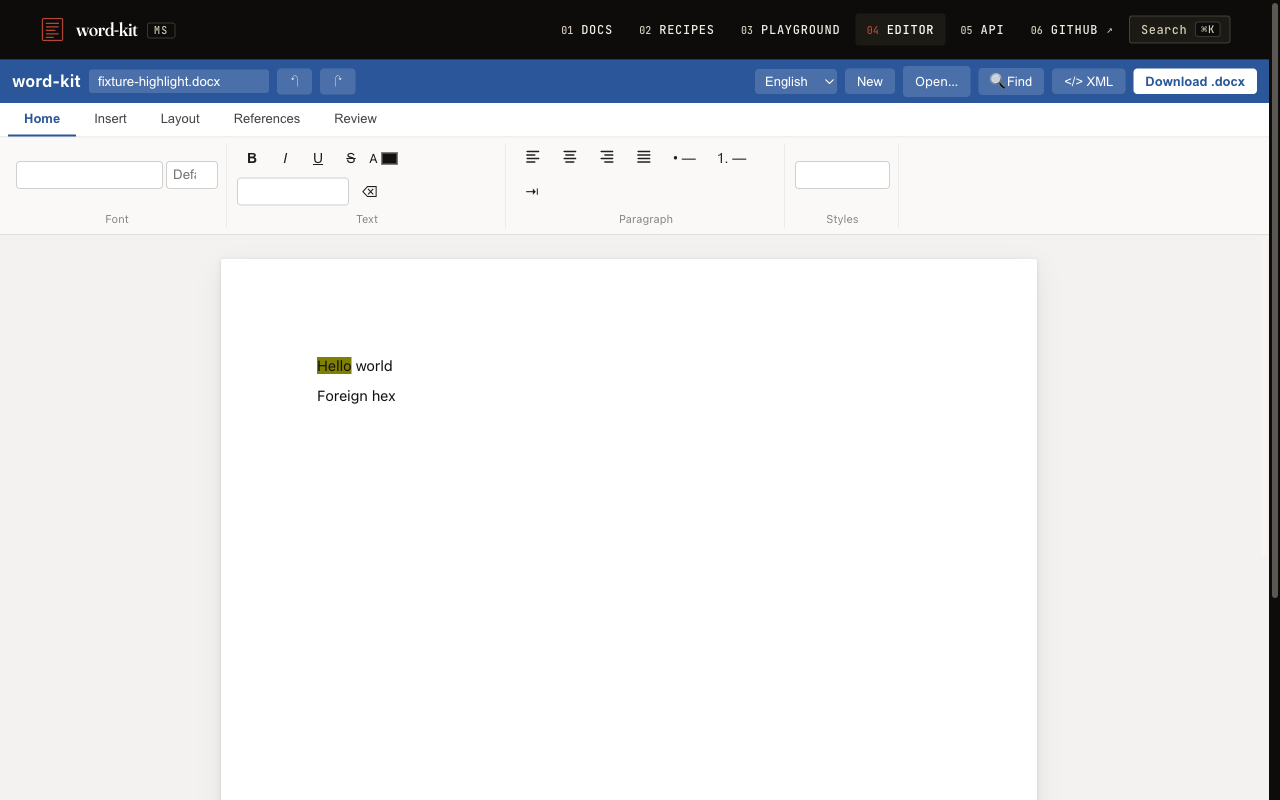
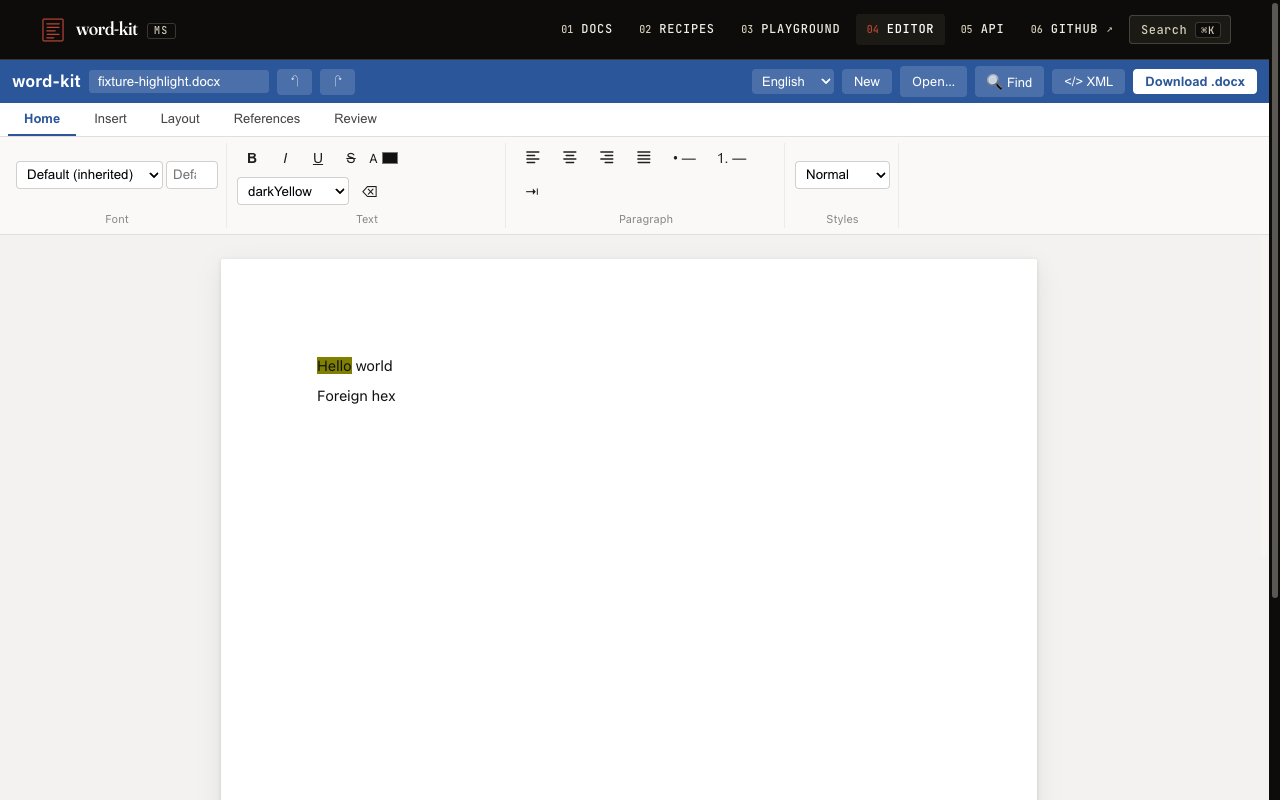
fix(site): make editor ribbon values readable under the site's dark scheme
The site root sets `color-scheme: dark`, so the editor's native selects
and inputs drew their values in light text on the ribbon's white
background. The editor root now declares `color-scheme: light`.
The QA screenshots are retaken with this fix.

Claude-Session: https://claude.ai/code/session_01SgDyTLBBzTN8f7ansWoHYb

diff --git a/site/src/routes/editor/+page.svelte b/site/src/routes/editor/+page.svelte
@@ -656,6 +656,9 @@
     background: #f3f2f1;
     font-family: 'Segoe UI', system-ui, sans-serif;
     color: #201f1e;
+    /* The site root is `color-scheme: dark`, which gives native selects and
+       inputs light default text; on this light UI their values were unreadable. */
+    color-scheme: light;
   }
   .titlebar {
     display: flex;

diff --git a/docs/qa/editor-20261004/README.md b/docs/qa/editor-20261004/README.md
@@ -1,26 +1,28 @@
 # Editor UI screenshots (2026-10-04)
 
-Screenshots of the `/editor` route for PR #21. They show the source tree of
-the commit that adds this folder (the folder itself is the only change in that
-commit). They were taken from a local dev server
-(`pnpm --filter word-kit-site dev`) with the packages built from that same
-source, in an isolated Chromium at a 1280 × 800 viewport, on
-2026-10-04 around 01:50 UTC. The documents are small generated fixtures with
-no real content.
+Screenshots of the `/editor` route for PR #21, taken from a local dev server
+(`pnpm --filter word-kit-site dev`) in an isolated headless Chromium at a
+1280 × 800 viewport. The documents are small generated fixtures with no real
+content. They are browser screenshots of this editor only; none of them is a
+comparison with Microsoft Word.
 
-No "before" screenshots: capturing the previous commit (`15aec19`) with the
-same fixtures would need a second build, which was not done.
+The current images were taken on 2026-10-04 between 02:06 and 02:10 UTC, with
+`site/src/routes/editor/+page.svelte` at blob `fa1f742` (the commit that
+updates these images; the rest of the tree is as in `9ff3929`).
 
-| File                            | What it shows                                                                                                                                                                                                                                         |
-| ------------------------------- | ----------------------------------------------------------------------------------------------------------------------------------------------------------------------------------------------------------------------------------------------------- |
-| `01-ribbon-mixed-font.png`      | Runs `Aaaa` (Arial), `Bbbb` (Times New Roman), `Cccc` (Arial), selected from inside the first to inside the last. The Font field's value is "Mixed" (read from the DOM) because the middle run differs; before this PR it showed "Arial" (ends only). |
-| `02-named-highlight.png`        | `Hello` highlighted with the named color `darkYellow`, chosen from the highlight list that replaces the color picker (`w:highlight` accepts only named colors). The caret is in the second line so the highlight is not covered by the selection.     |
-| `03-replace-all-table-cell.png` | Replace All `DRAFT` → `FINAL` on a document whose body starts with a table: "Replaced 3 occurrences.", including the table cell. Before this PR the cell was skipped (2 occurrences).                                                                 |
+The images first committed in `9ff3929` (taken ~01:50 UTC, same fixtures and
+viewport) serve as the "before" for the contrast fix: the site root is
+`color-scheme: dark`, so the ribbon selects and the find inputs drew their
+values in light text on a white background and were unreadable. The editor
+now declares `color-scheme: light` on its own root. There is no "before" for
+the earlier fixes (mixed font, named highlight, table replace): capturing
+`15aec19` would have needed a second build, which was not done.
 
-Known issue visible here, not fixed in this PR: the site sets
-`color-scheme: dark` on the root, and the editor ribbon gives its selects and
-the size box a white background without a text color, so the value of an
-_enabled_ select (Font, highlight, Styles) is drawn in the dark scheme's light
-text color and is not readable (01, 02). Disabled controls use the grey
-disabled color and are readable (03, "No selection"). The same CSS is in
-`15aec19`.
+| File                            | What it shows                                                                                                                                                                                                  |
+| ------------------------------- | -------------------------------------------------------------------------------------------------------------------------------------------------------------------------------------------------------------- |
+| `01-ribbon-mixed-font.png`      | Runs `Aaaa` (Arial), `Bbbb` (Times New Roman), `Cccc` (Arial), selected from inside the first to inside the last. The Font field reads "Mixed" because the middle run differs (before the range fix: "Arial"). |
+| `02-named-highlight.png`        | `darkYellow` applied to `Hello` from the named highlight list, then the caret placed inside `Hello` (collapsed, so no selection color): the highlight and the ribbon value `darkYellow` are both visible.      |
+| `03-replace-all-table-cell.png` | Replace All `DRAFT` → `FINAL` on a document whose body starts with a table: "Replaced 3 occurrences.", including the table cell (before the fix the cell was skipped: 2 occurrences).                          |
+
+Visible but not fixed here: the font-size box is too narrow for its
+"Default" placeholder ("Defa").
